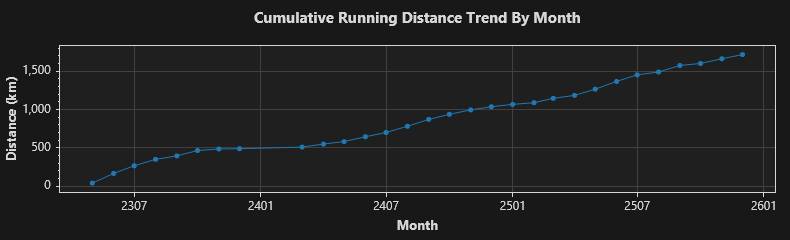
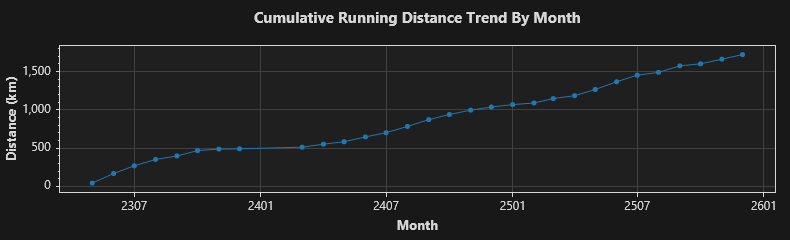
2025/12/24 跑步 5.43 公里

diff --git a/trend.md b/trend.md
@@ -1,4 +1,4 @@
-### Total: 289 days, 1715.93 km.
+### Total: 290 days, 1721.36 km.
 
 
 ![Monthly](https://github.com/prime167/MyRunningLog/blob/main/data/CumulativeTrendByMonth.png)
